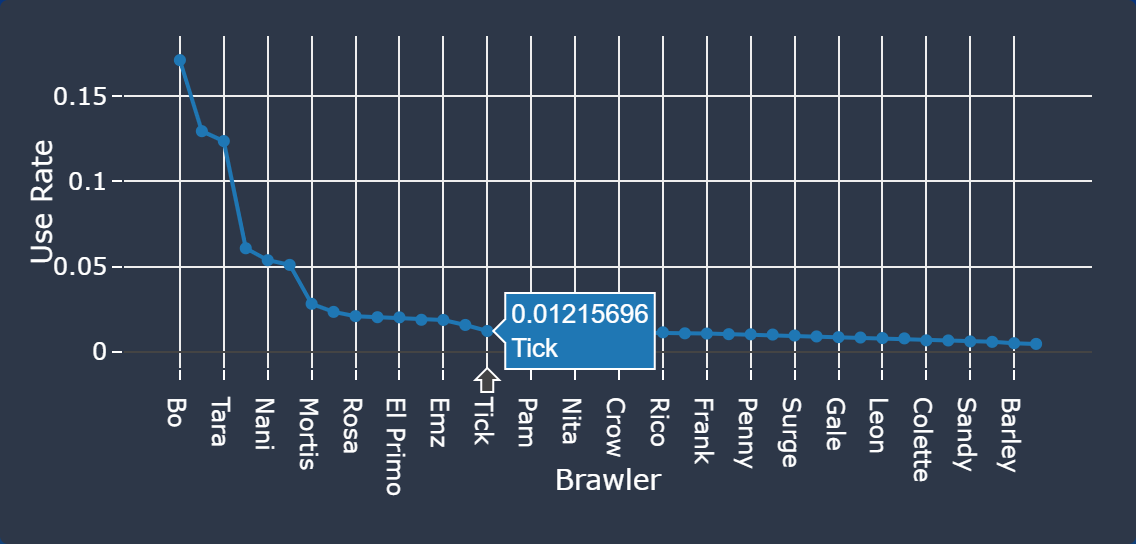
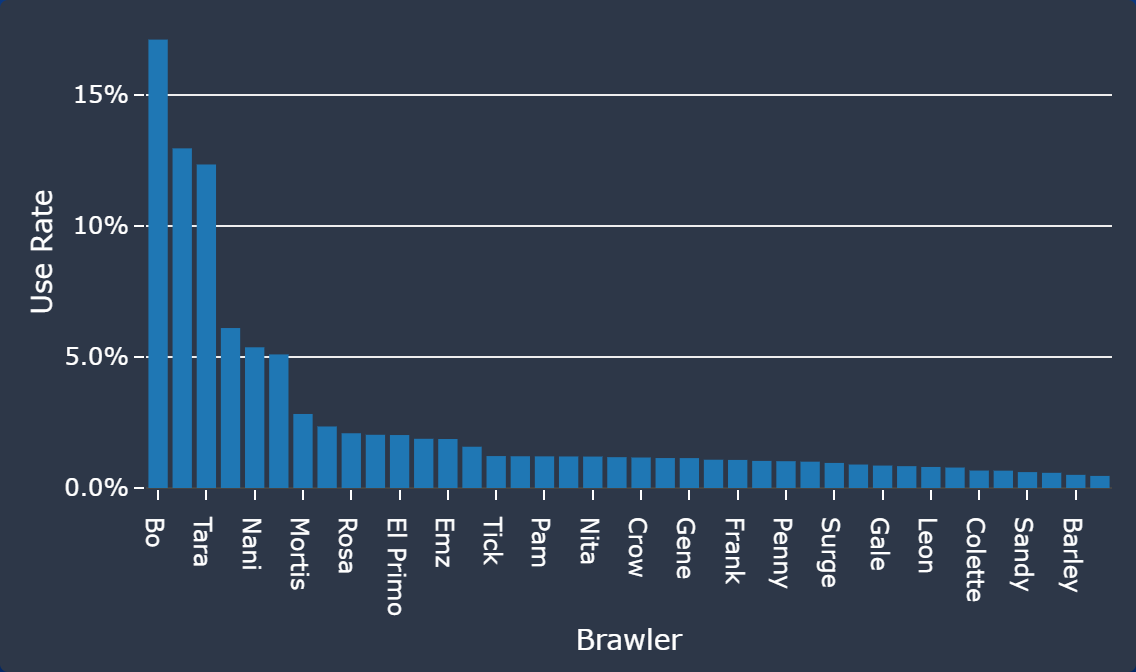
web: Update map quality article

Changed region(s): [[0.0308, 0.0625, 0.9859, 0.9375], [0.493, 0.9375, 0.6162, 0.9688], [0.0616, 0.625, 0.0924, 0.6562]]

diff --git a/web/content/faq/measuring-map-quality.md b/web/content/faq/measuring-map-quality.md
@@ -5,28 +5,28 @@ question: What is the Balance Rating, or what is the Gini coefficient?
 ---
 Brawl Stars has almost 200 distinct maps. With the daily Map Maker Competition Winner, there is a new map available to play every day. Unarguably, some maps must be better than others. How can we measure that?
 
-Players enjoy to play their favorite Brawler and to try different team compositions. Let us assume that the best maps are the most diverse maps: On a perfect map, every Brawler would be equally viable and fun to play. Now we will also assume that players notice when a certain player is not viable or not fun on a map, so they will prefer a different, more viable Brawler on this map instead.
+Players enjoy playing their favorite Brawlers and trying different team compositions. Let us assume that the best maps are the most diverse maps: On a perfect map, every Brawler would be equally viable and fun to play. Now we will also assume that players notice when certain Brawlers are not viable or not fun on a map, so they will prefer different, more viable Brawlers instead.
 
 We can put this assumption into numbers: With more and more battles being played on a particular map, the use rate of viable Brawlers will be high and the use rate of not so viable Brawlers will be low. Ideally, for a map where every Brawler was equally viable, the use rates of all Brawlers would be the same.
 
-On the Brawl Time Ninja [Map Tier Lists](http://brawltime.ninja/tier-list), we can quickly compare the use rates of all Brawlers using the "Graph" Layout. Below is a screenshot of [Gem Grab - Double Swoosh](https://brawltime.ninja/tier-list/mode/gem-grab/map/Double-Swoosh?season=month), a popular map that has more than 400 000 battles recorded by Brawl Time Ninja over the past month.
+Using the Brawl Time Ninja [Map Tier Lists](http://brawltime.ninja/tier-list/brawler), we can quickly compare the use rates of all Brawlers with the "Graph" Layout. Below is a screenshot of [Gem Grab - Corner Case](https://brawltime.ninja/tier-list/mode/gem-grab/map/Corner-Case?season=month), a recent map for which Brawl Time Ninja has recorded about 150 000 battles for the past month.
 
-![Use rate graph for Gem Grab - Double Swoosh](/images/use_rate_graph_double_swoosh.png)
+![Use rate graph for Gem Grab - Corner Case](/images/use_rate_graph_corner_case.png)
 
-In this graph, we can see a pattern: The use rates of most Brawlers are almost evenly distributed at about 2%, with 6 Brawlers closer to 4% and Tara at over 8%. The top 5 Brawlers make up 26.8% use rate in total.
+In this graph, the use rates of most Brawlers are between 1.5% and 3.5%. The highest use rate is Poco's at 4.9%. The top 5 Brawlers make up 21% use rate in total.
 
-Let us compare this graph with the graph for [Bounty - Snake Prairie](https://brawltime.ninja/tier-list/mode/bounty/map/Snake-Prairie?season=month):
+Let us compare this graph with the graph for [Bounty - Snake Prairie](https://brawltime.ninja/tier-list/mode/bounty/map/Snake-Prairie?season=month), a map with about 90 000 recorded battles:
 
 ![Use rate graph for Bounty - Snake Prairie](/images/use_rate_graph_snake_prairie.png)
 
-The scale of the Y axis is different here. Most Brawlers have use rates close to 1%, with three Brawlers (Bo, Shelly and Tara) above 10% Use Rate. The top 5 Brawlers make up 53.4% use rate! You are almost guaranteed to meet one of the top 5 Brawlers in every Battle.
+The scale of the Y axis is different here, going from 0% to 15% instead of 0% to 5%. The distribution is a lot less even and dominated by few Brawlers. The majority of Brawlers have a use rate close to 1%, with three (Bo, Shelly and Tara) above 10% use rate. The top 5 Brawlers make up 53.4%! You are almost guaranteed to meet one of the top 5 in every Battle.
 
-Playing on Snake Prairie is probably fun every once in a while, but playing against the same team compositions every Battle is repetetive. For the long term, Double Swoosh is a much better map compared to Snake Prairie.
+Playing on Snake Prairie is probably fun every once in a while, but playing against the same team compositions every Battle is repetitive. For the long term, Corner Case is a much better map compared to Snake Prairie.
 
-We have explored and validated our method and saw that we can use it to judge the map meta quality. Now we need to find a metric that captures what we saw in a single number. Luckily, statistics has a tool for us: [The Gini coefficient](https://en.wikipedia.org/wiki/Gini_coefficient) which is commonly used to calculate the inequality of wealth. It measures the evenness of a distribution, in our case the evenness of Brawler use rates. There are a few different formulas for different applications - Brawl Time Ninja uses the formula that calculates it as half of the relative mean absolute difference. Without going further into detail, all you need to know is: With a perfect map, when the use rates are the same for all Brawlers, the Gini coefficient is 0. On the least diverse map imaginable, one Brawler has 100% use rate and all others 0% and the Gini coefficient is 1.
+We have explored and validated our method and saw that we can use it to judge the map meta quality. Now we need to find a metric that captures what we saw in a single number. Luckily, statistics has a tool for us: [The Gini coefficient](https://en.wikipedia.org/wiki/Gini_coefficient), which is commonly used to calculate the inequality of wealth. It measures the evenness of a distribution, in our case the evenness of Brawler use rates. There are a few different formulas for different applications - Brawl Time Ninja uses the formula that calculates it as half of the relative mean absolute difference. Without going further into detail, all you need to know is: With a perfect map, when the use rates are the same for all Brawlers, the Gini coefficient is 0. On the least diverse map imaginable, one Brawler has 100% use rate and all others 0% and the Gini coefficient is 1.
 
-For Snake Prairie, the Gini coefficient is 0.55. Double Swoosh has a much lower Gini coefficient of 0.25. Looking at a few maps, the Gini coefficient is 0.32 on average, with 1 out of 4 maps having a Gini coefficient better than 0.225 and 1 out of 4 maps having a Gini coefficient worse than 0.425. To help you in interpreting these numbers, Brawl Time Ninja labels them from "Excellent" to "Awful".
+For Snake Prairie, the Gini coefficient is 0.55. Corner Case has a much lower Gini coefficient of 0.17. Looking at a few maps, the Gini coefficient is 0.32 on average, with 1 out of 4 maps having a Gini coefficient better than 0.225 and 1 out of 4 maps having a Gini coefficient worse than 0.425. To help you in interpreting these numbers, Brawl Time Ninja labels them from "Excellent" to "Awful".
 
-Great! We can now use the Gini coefficient to objectively compare maps. You can view the Gini coefficient as "Balance Rating" in the map details card on every Map Tier List page. For example, take a look at the [Map Maker Competition Winner Maps](https://brawltime.ninja/tier-list/competition-winners) so far.
+Great! We can now use the Gini coefficient to objectively compare maps. You can view the Gini coefficient as "Balance Rating" in the map details card on every Map Tier List page. For example, you take a look at how good the [Map Maker Competition Winner Maps](https://brawltime.ninja/tier-list/competition-winners) have been so far.
 
 ![Map details for Bounty - Snake Prairie, showing a poor balance rating for a high Gini coefficient](/images/map_details_snake_prairie.png)
